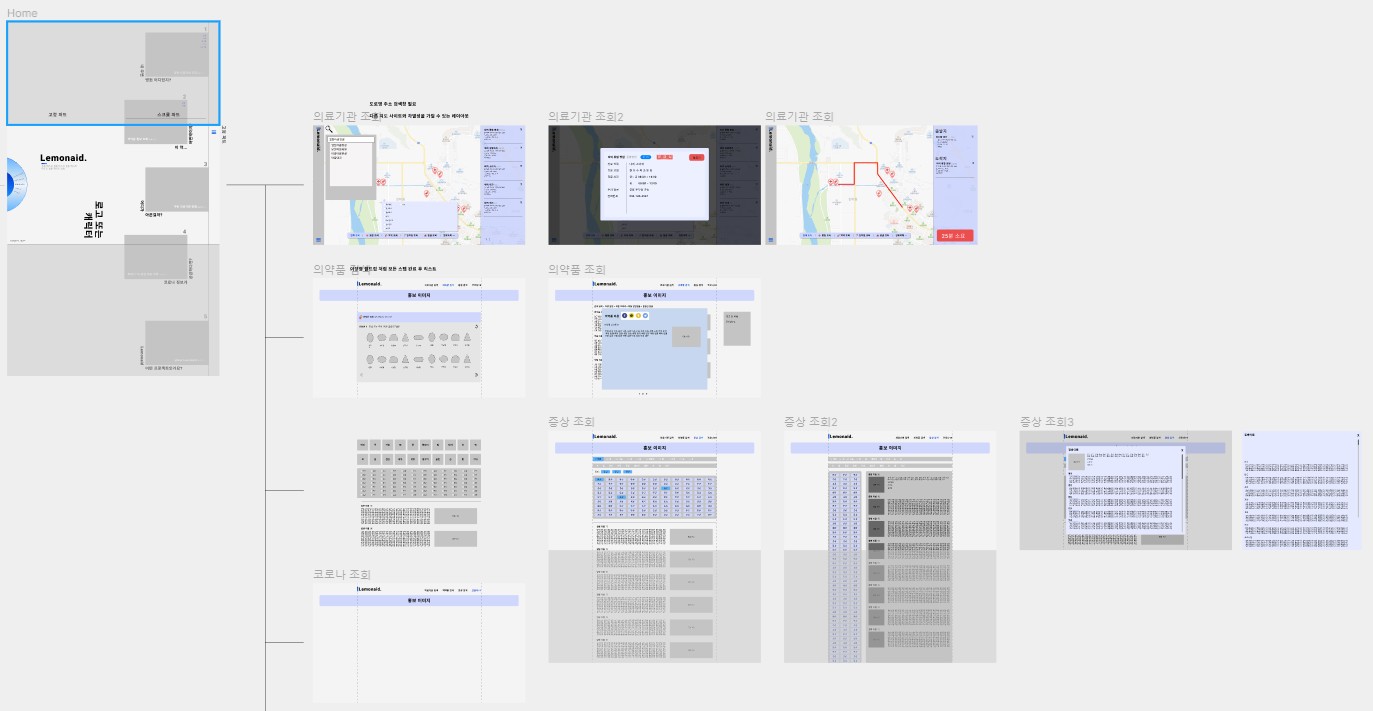
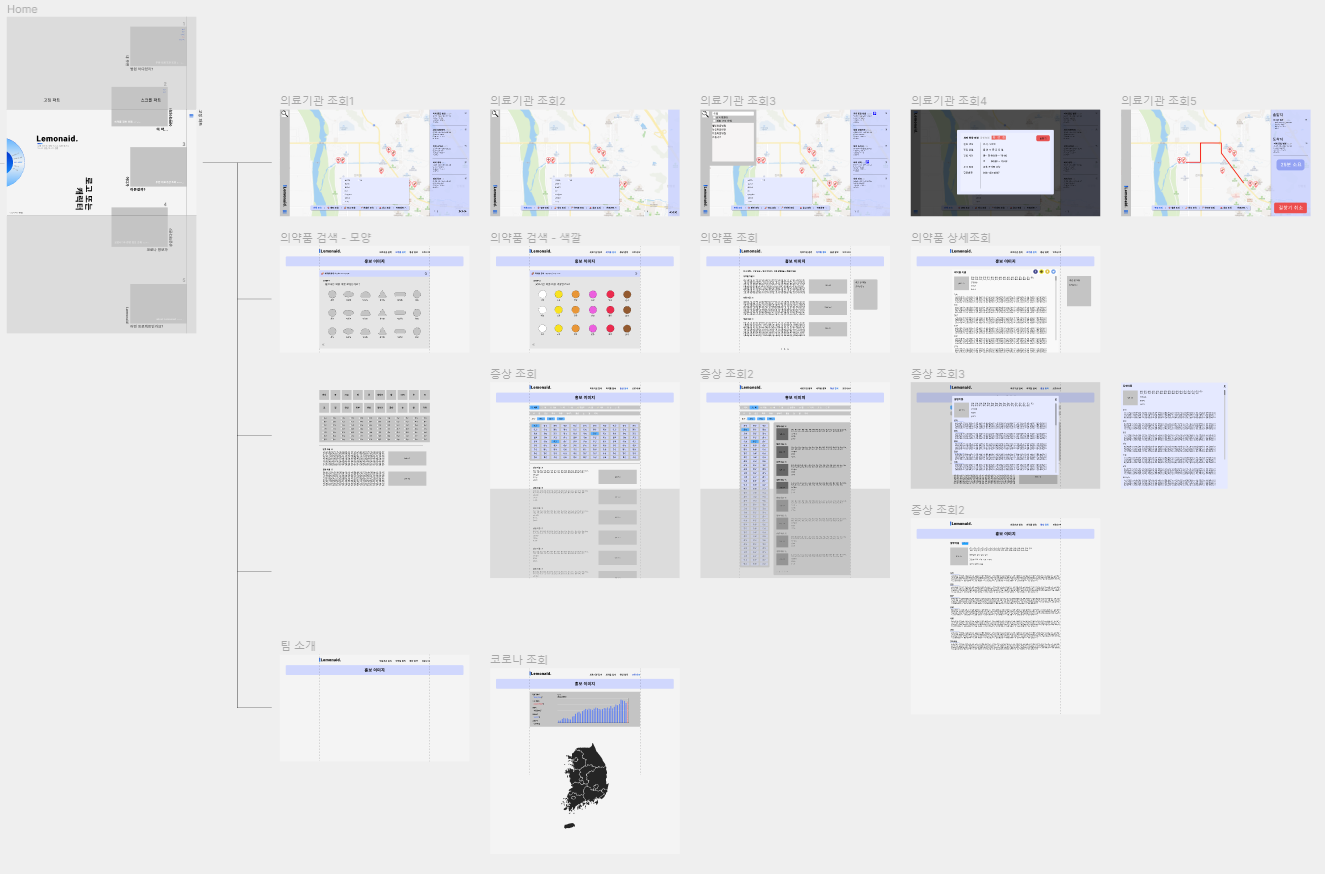
docs: 와이어프레임 수정

diff --git a/산출물/wireframe.md b/산출물/wireframe.md
@@ -22,3 +22,7 @@
 
   ![증상](wireframe.assets/증상.PNG) 
 
+- 코로나
+
+  ![코로나](wireframe.assets/코로나.PNG) 
+
